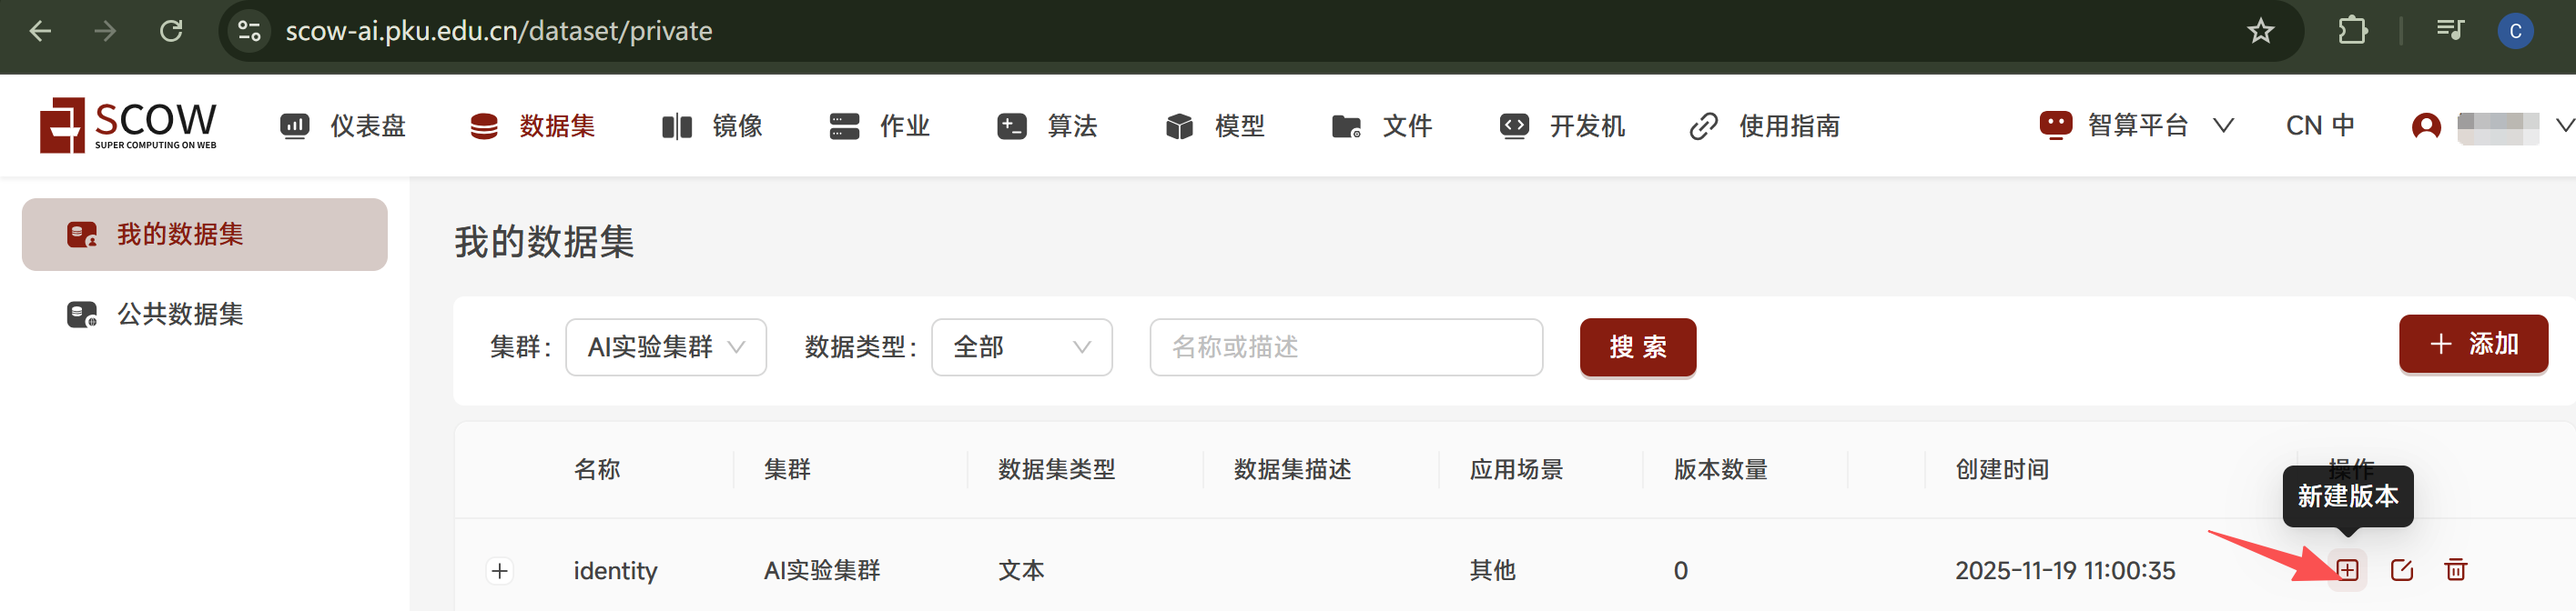
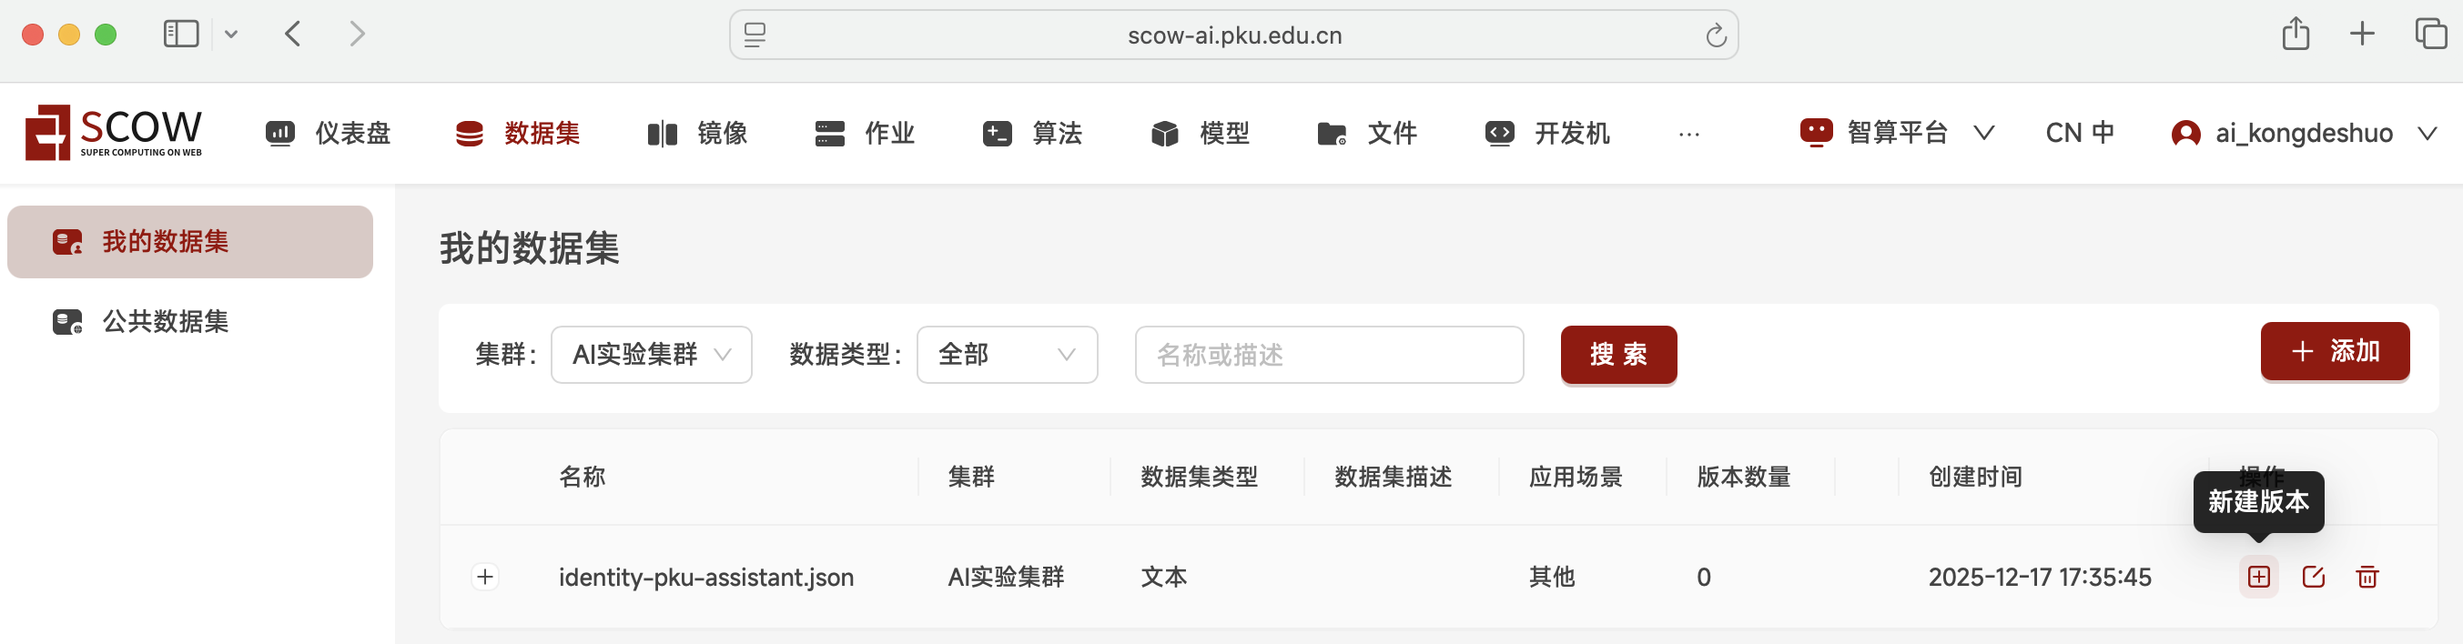
更新t5中的图片

diff --git a/Tutorial5_添加和管理数据集/tutorial5_添加和管理数据集.md b/Tutorial5_添加和管理数据集/tutorial5_添加和管理数据集.md
@@ -29,34 +29,40 @@
 进入新建的 data 目录，看到目录里什么文件都没有
 ![alt text](assets/image-4.png)
 
-点击 新文件，来创建新文件，文件命名为 identity.json 
+点击 新文件，来创建新文件，文件命名为 identity-pku-assistant.json 
+
 ![alt text](assets/image-5.png)
 
-点击 确定 按钮，data 目录里面，已经创建了一个名字为 identity.json 的文件
+点击 确定 按钮，data 目录里面，已经创建了一个名字为 identity-pku-assistant.json 的文件
+
 ![alt text](assets/image-6.png)
 
-此时文件没有内容，点击文件名 identity.json，打开文件，文件为空白，点击右下角的 编辑 按钮，对文件进行编辑
+此时文件没有内容，点击文件名 identity-pku-assistant.json，打开文件，文件为空白，点击右下角的 编辑 按钮，对文件进行编辑
+
 ![alt text](assets/image-7.png)
 
-把[数据集内容](dataset/identity.json)进行 复制，然后粘贴到 文件 中，点击 保存 按钮，identity.json 就有了内容，在后续的步骤中将作为数据集使用
+把[数据集内容](dataset/identity-pku-assistant.json)进行 复制，然后粘贴到 文件 中，点击 保存 按钮，identity-pku-assistant.json 就有了内容，在后续的步骤中将作为数据集使用
+
 ![alt text](assets/image-8.png)
 
 1.1.3 创建数据集相关的文件
 
 点击 新文件，来创建新文件，文件名命名为 dataset_info.json
+
 ![alt text](assets/image-9.png)
 
 将下面 代码 复制后，粘贴到文件
 
 ```json
 {
-  "identity": {
-    "file_name": "identity.json"
+  "identity-pku-assistant": {
+    "file_name": "identity-pku-assistant.json"
   }
 }  
 ```
 
 点击 保存 按钮，可以看到 dataset_info.json 文件创建成功，data目录下面已创建两个文件：indentiy.json作为数据集，dataset_info.json作为数据相关信息
+
 ![alt text](assets/image-10.png)
 
 1.1.4 为数据集设置版本，方便管理
@@ -67,19 +73,24 @@
 进入 我的数据集 页面进行管理，点击 添加 按钮
 ![alt text](assets/image-12.png)
 
-将数据集名称命名为 identity，数据类型中选择 文本，点击 确定 按钮
+将数据集名称命名为 identity-pku-assistant.json，数据类型中选择 文本，点击 确定 按钮
+
 ![alt text](assets/image-13.png)
 
-点击刚添加的数据集 identity 后的 + 加号，为它创建新版本
+点击刚添加的数据集 identity-pku-assistant.json 后的 + 加号，为它创建新版本
+
 ![alt text](assets/image-14.png)
 
 版本名称可以用日期，例如 2025922，也可以使用自己好理解的名称，点击 选择数据集 最右边图标
+
 ![alt text](assets/image-15.png)
 
 选择刚创建的目录 data, 点击 确认 按钮
+
 ![alt text](assets/image-16.png)
 
 点击数据集名称前的 + 加号，+ 加号变成 - 减号后，展开查看数据集的版本已经添加成功：
+
 ![alt text](assets/image-17.png)
 
 ---
